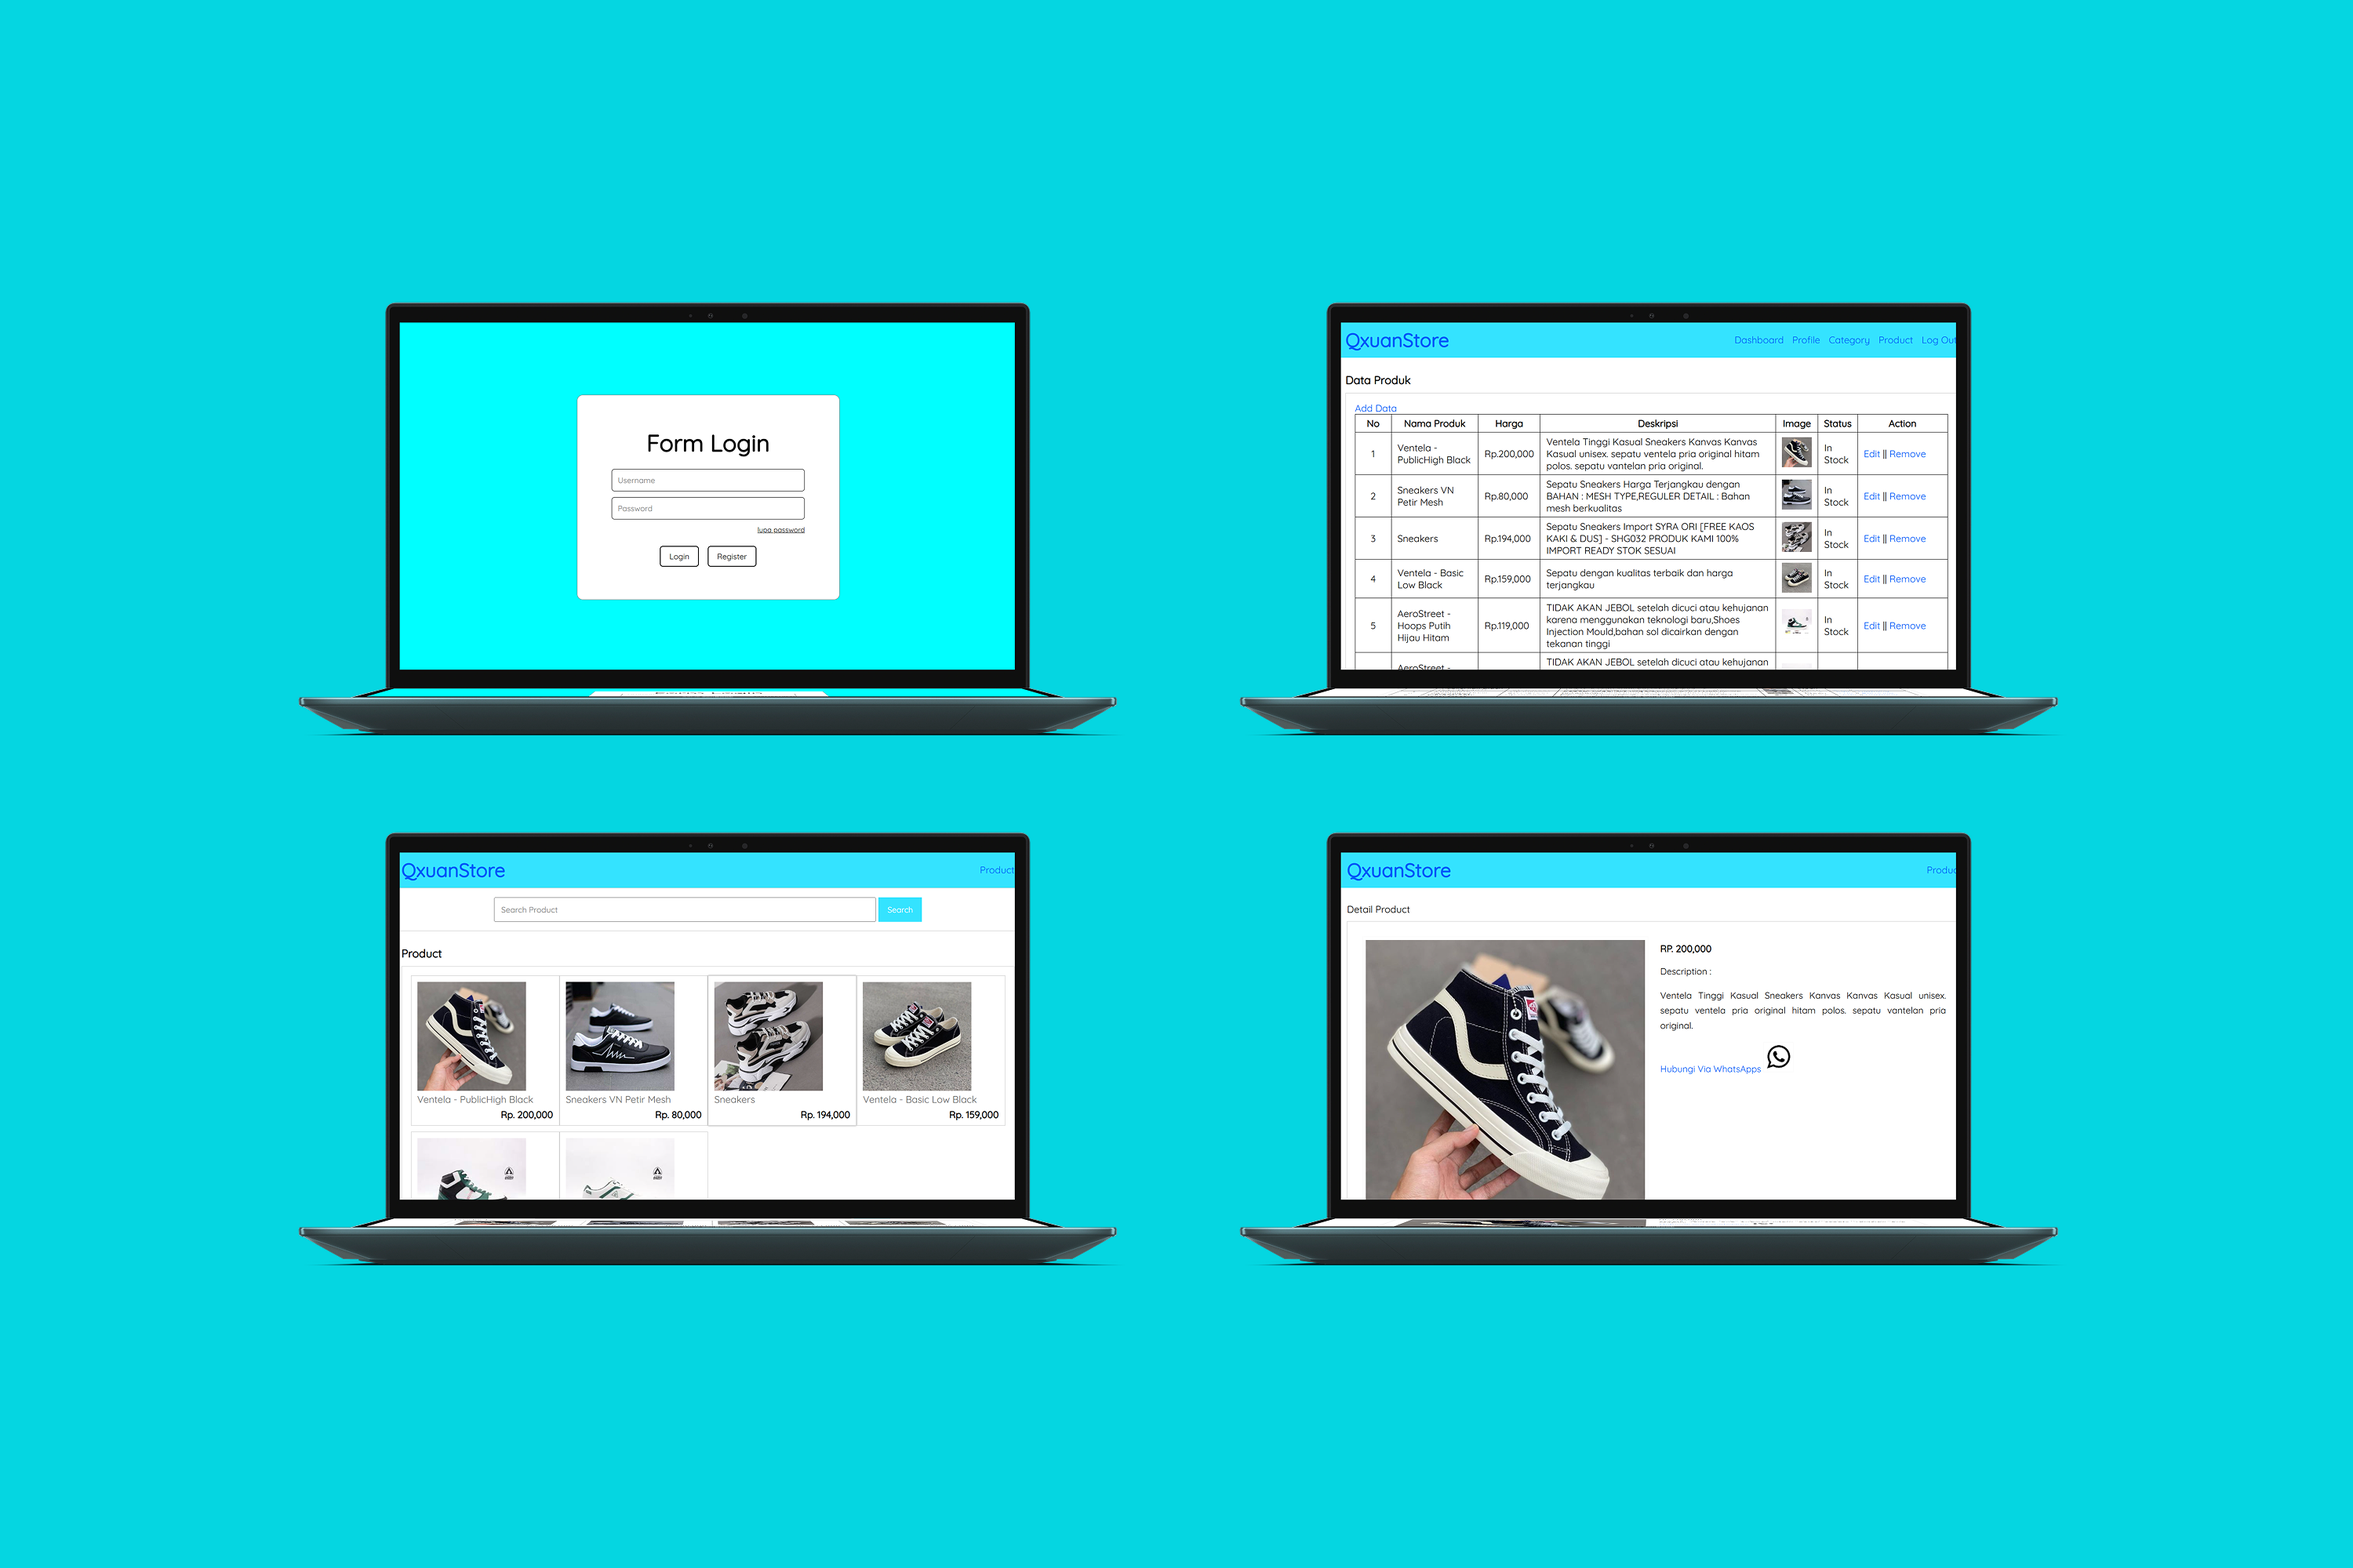
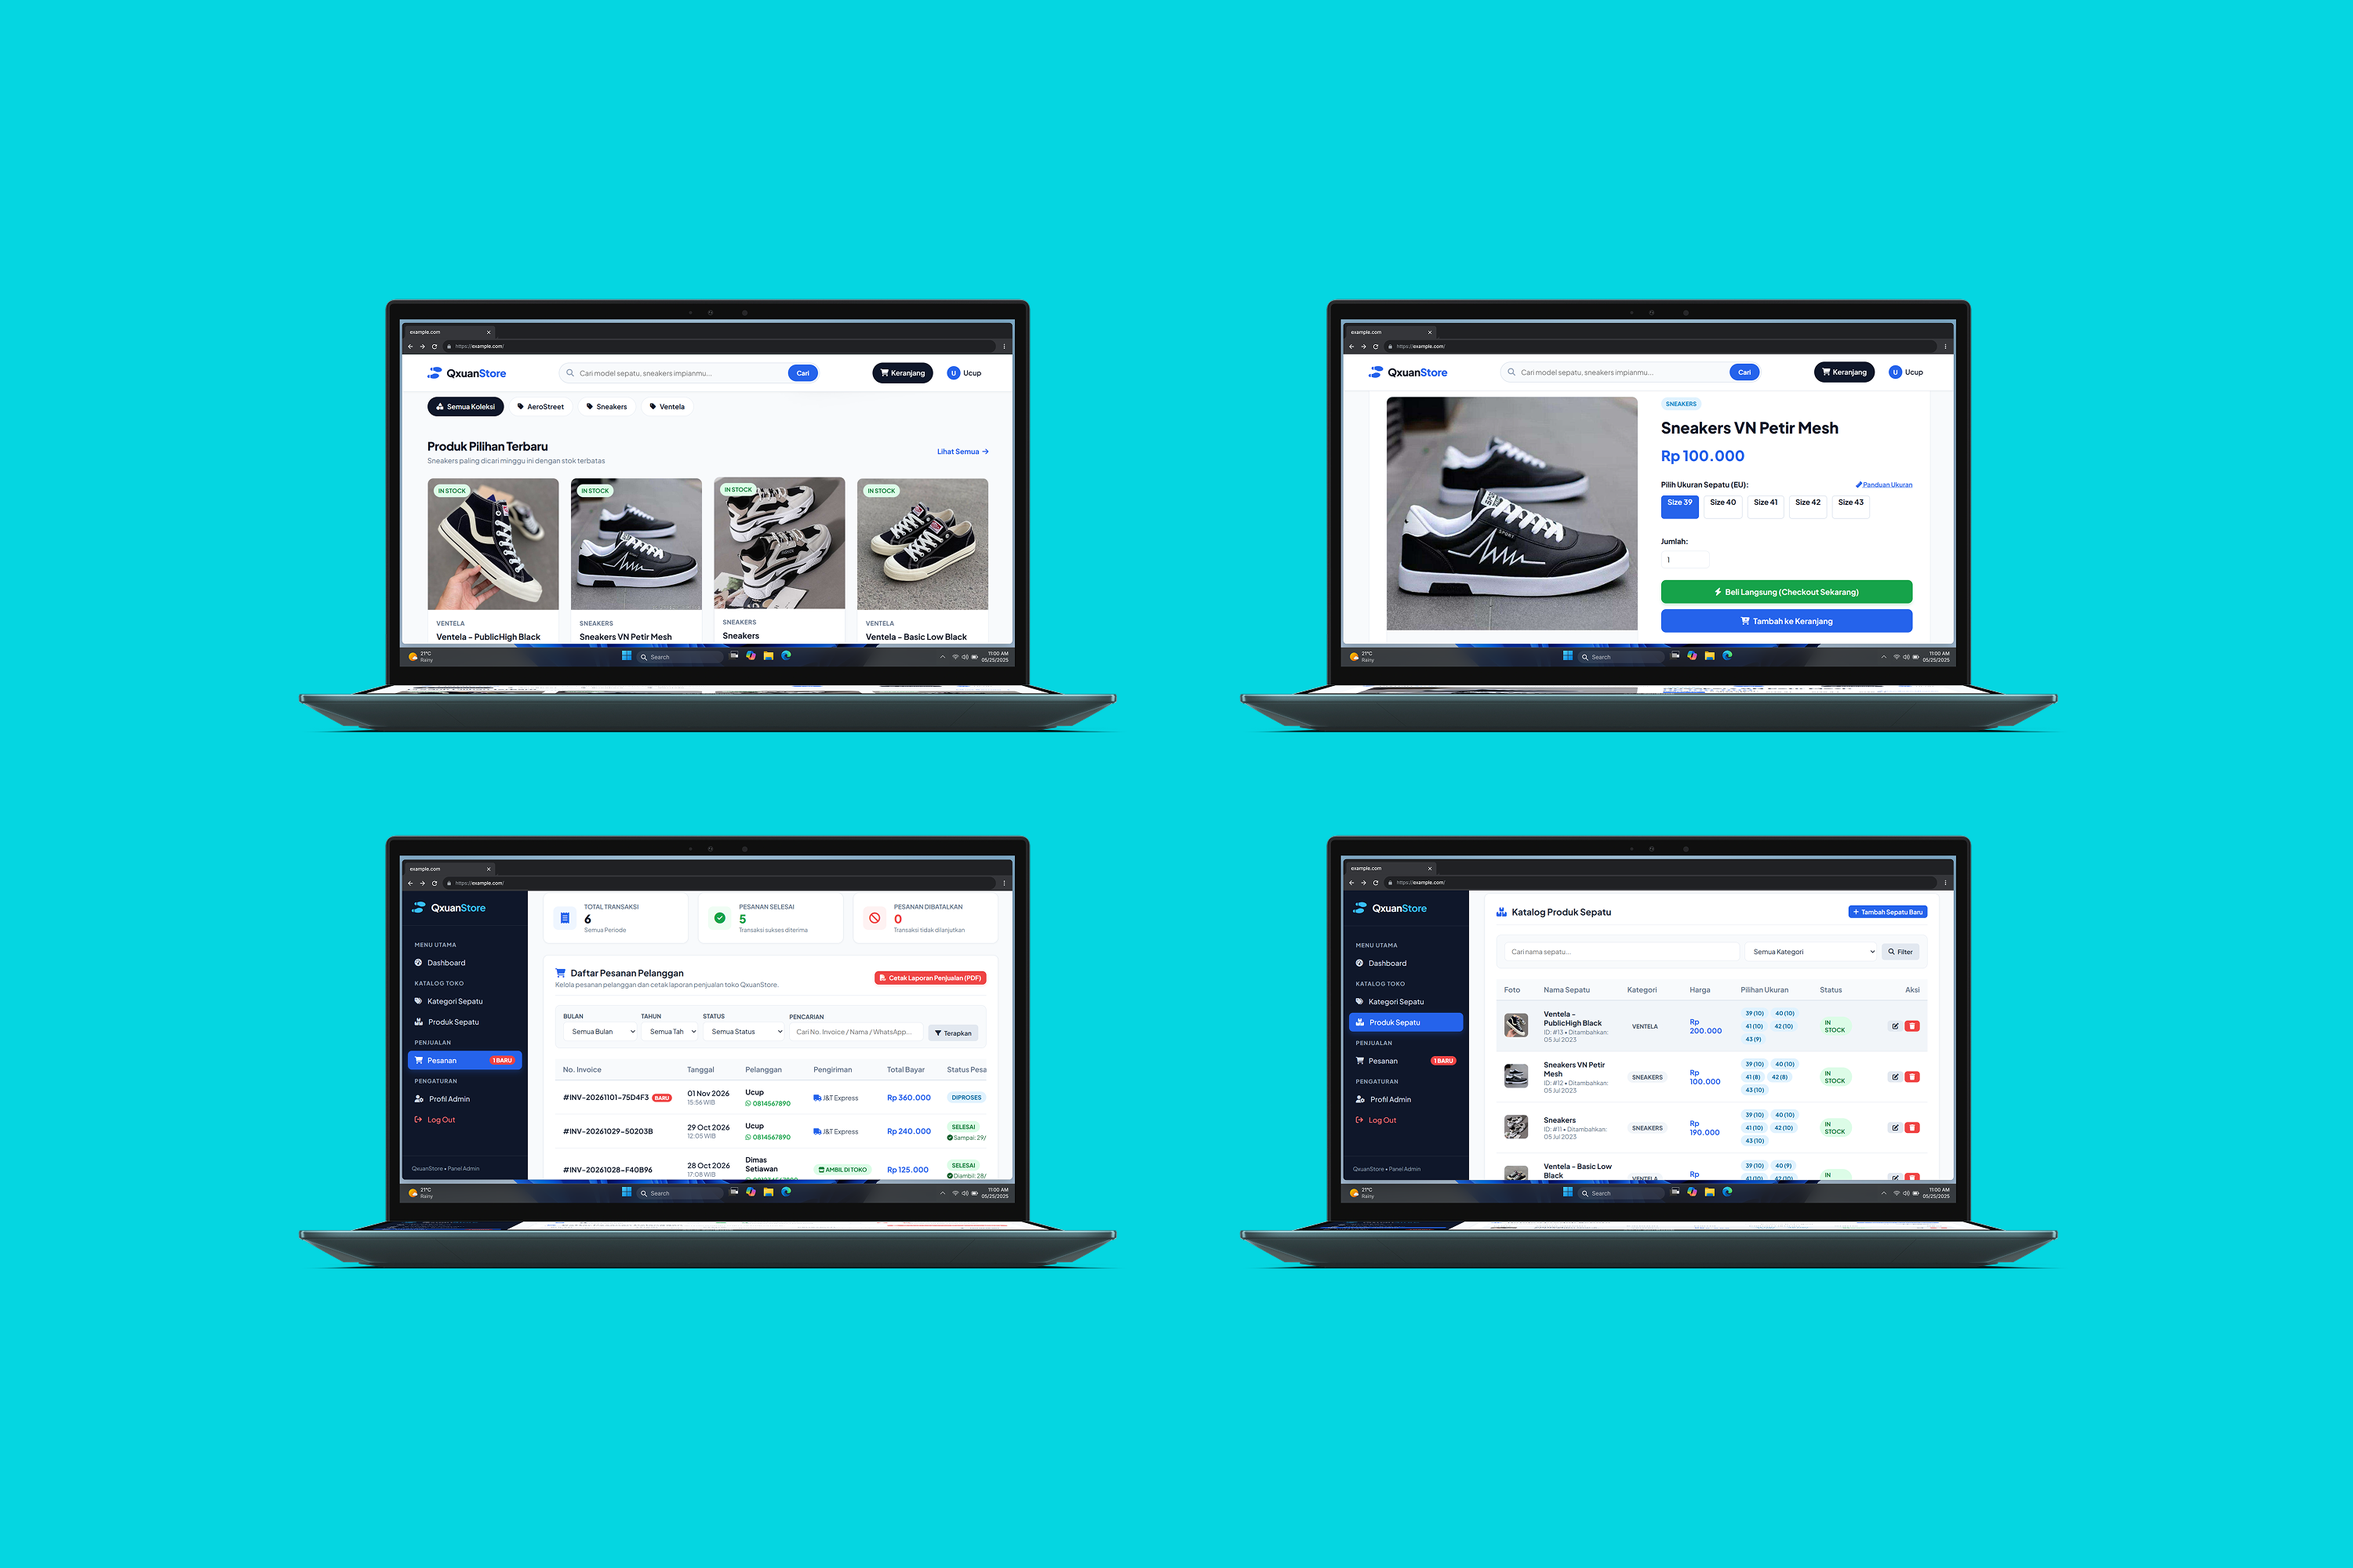
update

diff --git a/index.html b/index.html
@@ -60,7 +60,7 @@
         </div>
       </div>
       <div class="home-img">
-        <img src="img/img1.jpeg" alt="" />
+        <img src="img/img2.jpeg" alt="" />
       </div>
     </section>
     <!-- End Home -->
@@ -170,7 +170,7 @@
         <!-- Project 3 -->
         <div class="project-box" onclick="openProject('store-sepatu')">
           <div class="project-image">
-            <img src="img/project.png"/>
+            <img src="img/project3.png"/>
             <span class="badge-web">Website</span>
           </div>
 

diff --git a/script.js b/script.js
@@ -84,7 +84,7 @@ const projects = {
     category: "Web",
     type: "Mandiri",
     role: "Fullstack",
-    image: "img/project.png",
+    image: "img/project3.png",
 
     description:
       "Project UAS Pemrograman Berbasis Web membuat website ecommerce. Saya membuat QxuanStore yaitu sebuah toko sepatu online modern dengan fitur pencarian dan filter kategori produk, keranjang belanja, checkout dan integrasi pembayaran otomatis via Midtrans, serta dashboard admin untuk manajemen inventaris stok dan laporan penjualan.",

diff --git a/project.html b/project.html
@@ -74,7 +74,7 @@
         <!-- Project 3 -->
         <div class="project-box" onclick="openProject('store-sepatu')">
           <div class="project-image">
-            <img src="img/project.png"/>
+            <img src="img/project3.png"/>
             <span class="badge-web">Website</span>
           </div>
 
